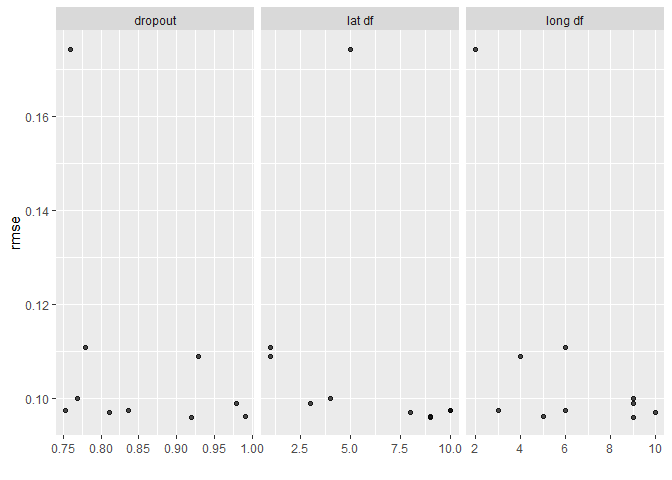
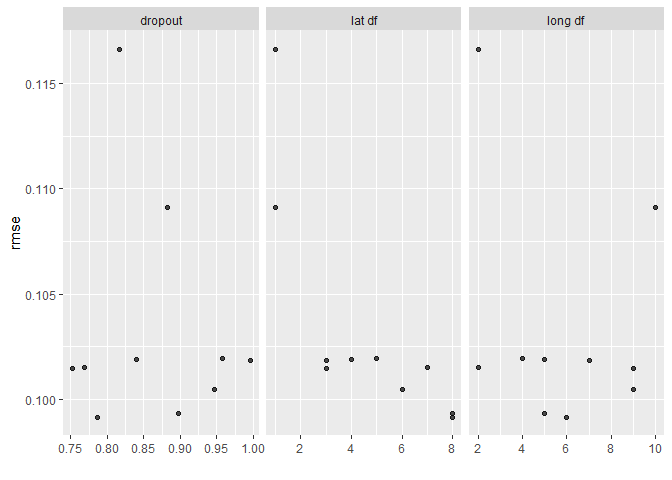
try again

diff --git a/README.md b/README.md
@@ -55,6 +55,7 @@ library(OutlierDetection)
 rec_obj <-
   recipe(mpg ~ ., data = mtcars) %>%
   step_outliers_maha(all_numeric(), -all_outcomes()) %>%
+  step_outliers_lookout(all_numeric(),-contains(r"(.outliers)"),-all_outcomes()) %>% 
   prep(mtcars)
 ```
 
@@ -62,23 +63,24 @@ rec_obj <-
 
 ``` r
 juice(rec_obj) %>% 
-  select(.outliers_maha)
+  select(contains(r"(.outliers)")) %>% 
+  arrange(.outliers_lookout %>% desc())
 #> Registered S3 method overwritten by 'cli':
 #>   method     from    
 #>   print.boxx spatstat
-#> # A tibble: 32 x 1
-#>    .outliers_maha
-#>             <dbl>
-#>  1          0.411
-#>  2          0.374
-#>  3          0.222
-#>  4          0.192
-#>  5          0.124
-#>  6          0.350
-#>  7          0.481
-#>  8          0.493
-#>  9          0.985
-#> 10          0.737
+#> # A tibble: 32 x 2
+#>    .outliers_maha .outliers_lookout
+#>             <dbl>             <dbl>
+#>  1          0.959            1     
+#>  2          0.967            0.506 
+#>  3          0.951            0.403 
+#>  4          0.654            0.108 
+#>  5          0.864            0.0795
+#>  6          0.741            0.0787
+#>  7          0.411            0     
+#>  8          0.374            0     
+#>  9          0.222            0     
+#> 10          0.192            0     
 #> # ... with 22 more rows
 ```
 
@@ -87,16 +89,34 @@ tidy(rec_obj,number = 1)
 #> # A tibble: 32 x 3
 #>    index outlier_probability id                 
 #>    <int>               <dbl> <chr>              
-#>  1     1               0.411 outliers_maha_mYwUv
-#>  2     2               0.374 outliers_maha_mYwUv
-#>  3     3               0.222 outliers_maha_mYwUv
-#>  4     4               0.192 outliers_maha_mYwUv
-#>  5     5               0.124 outliers_maha_mYwUv
-#>  6     6               0.350 outliers_maha_mYwUv
-#>  7     7               0.481 outliers_maha_mYwUv
-#>  8     8               0.493 outliers_maha_mYwUv
-#>  9     9               0.985 outliers_maha_mYwUv
-#> 10    10               0.737 outliers_maha_mYwUv
+#>  1     1               0.411 outliers_maha_UScb9
+#>  2     2               0.374 outliers_maha_UScb9
+#>  3     3               0.222 outliers_maha_UScb9
+#>  4     4               0.192 outliers_maha_UScb9
+#>  5     5               0.124 outliers_maha_UScb9
+#>  6     6               0.350 outliers_maha_UScb9
+#>  7     7               0.481 outliers_maha_UScb9
+#>  8     8               0.493 outliers_maha_UScb9
+#>  9     9               0.985 outliers_maha_UScb9
+#> 10    10               0.737 outliers_maha_UScb9
+#> # ... with 22 more rows
+```
+
+``` r
+tidy(rec_obj,number = 2)
+#> # A tibble: 32 x 3
+#>    index outlier_probability id                    
+#>    <int>               <dbl> <chr>                 
+#>  1     1                   0 outliers_lookout_jpLf8
+#>  2     2                   0 outliers_lookout_jpLf8
+#>  3     3                   0 outliers_lookout_jpLf8
+#>  4     4                   0 outliers_lookout_jpLf8
+#>  5     5                   0 outliers_lookout_jpLf8
+#>  6     6                   0 outliers_lookout_jpLf8
+#>  7     7                   0 outliers_lookout_jpLf8
+#>  8     8                   0 outliers_lookout_jpLf8
+#>  9     9                   0 outliers_lookout_jpLf8
+#> 10    10                   0 outliers_lookout_jpLf8
 #> # ... with 22 more rows
 ```
 
@@ -108,29 +128,31 @@ tidy(rec_obj,number = 1)
 rec_obj2 <-
   recipe(mpg ~ ., data = mtcars) %>%
   step_outliers_maha(all_numeric(), -all_outcomes()) %>%
+  step_outliers_lookout(all_numeric(),-contains(r"(.outliers)"),-all_outcomes()) %>% 
   step_outliers_remove(contains(r"(.outliers)")) %>% 
   prep(mtcars)
 ```
 
 ### Investigate results
 
-We can see that the mtcars dataset got reduced by our function
+We can see that the mtcars dataset got reduced by our function but way
+less than if we used just one function on this case
 
 ``` r
 juice(rec_obj2) %>% glimpse()
-#> Rows: 28
+#> Rows: 31
 #> Columns: 11
-#> $ cyl  <dbl> 6, 6, 4, 6, 8, 6, 8, 4, 6, 6, 8, 8, 8, 8, 8, 8, 4, 4, 4, 4, 8,...
-#> $ disp <dbl> 160.0, 160.0, 108.0, 258.0, 360.0, 225.0, 360.0, 146.7, 167.6,...
-#> $ hp   <dbl> 110, 110, 93, 110, 175, 105, 245, 62, 123, 123, 180, 180, 180,...
+#> $ cyl  <dbl> 6, 6, 4, 6, 8, 6, 8, 4, 4, 6, 6, 8, 8, 8, 8, 8, 8, 4, 4, 4, 4,...
+#> $ disp <dbl> 160.0, 160.0, 108.0, 258.0, 360.0, 225.0, 360.0, 146.7, 140.8,...
+#> $ hp   <dbl> 110, 110, 93, 110, 175, 105, 245, 62, 95, 123, 123, 180, 180, ...
 #> $ drat <dbl> 3.90, 3.90, 3.85, 3.08, 3.15, 2.76, 3.21, 3.69, 3.92, 3.92, 3....
-#> $ wt   <dbl> 2.620, 2.875, 2.320, 3.215, 3.440, 3.460, 3.570, 3.190, 3.440,...
-#> $ qsec <dbl> 16.46, 17.02, 18.61, 19.44, 17.02, 20.22, 15.84, 20.00, 18.30,...
-#> $ vs   <dbl> 0, 0, 1, 1, 0, 1, 0, 1, 1, 1, 0, 0, 0, 0, 0, 0, 1, 1, 1, 1, 0,...
-#> $ am   <dbl> 1, 1, 1, 0, 0, 0, 0, 0, 0, 0, 0, 0, 0, 0, 0, 0, 1, 1, 1, 0, 0,...
-#> $ gear <dbl> 4, 4, 4, 3, 3, 3, 3, 4, 4, 4, 3, 3, 3, 3, 3, 3, 4, 4, 4, 3, 3,...
-#> $ carb <dbl> 4, 4, 1, 1, 2, 1, 4, 2, 4, 4, 3, 3, 3, 4, 4, 4, 1, 2, 1, 1, 2,...
-#> $ mpg  <dbl> 21.0, 21.0, 22.8, 21.4, 18.7, 18.1, 14.3, 24.4, 19.2, 17.8, 16...
+#> $ wt   <dbl> 2.620, 2.875, 2.320, 3.215, 3.440, 3.460, 3.570, 3.190, 3.150,...
+#> $ qsec <dbl> 16.46, 17.02, 18.61, 19.44, 17.02, 20.22, 15.84, 20.00, 22.90,...
+#> $ vs   <dbl> 0, 0, 1, 1, 0, 1, 0, 1, 1, 1, 1, 0, 0, 0, 0, 0, 0, 1, 1, 1, 1,...
+#> $ am   <dbl> 1, 1, 1, 0, 0, 0, 0, 0, 0, 0, 0, 0, 0, 0, 0, 0, 0, 1, 1, 1, 0,...
+#> $ gear <dbl> 4, 4, 4, 3, 3, 3, 3, 4, 4, 4, 4, 3, 3, 3, 3, 3, 3, 4, 4, 4, 3,...
+#> $ carb <dbl> 4, 4, 1, 1, 2, 1, 4, 2, 2, 4, 4, 3, 3, 3, 4, 4, 4, 1, 2, 1, 1,...
+#> $ mpg  <dbl> 21.0, 21.0, 22.8, 21.4, 18.7, 18.1, 14.3, 24.4, 22.8, 19.2, 17...
 ```
 
 ``` r
@@ -153,21 +175,21 @@ mtcars %>% glimpse()
 And we can get which were the outliers and their probability
 
 ``` r
-tidy(rec_obj2,number = 2) %>% 
+tidy(rec_obj2,number = 3) %>% 
   arrange(aggregation_results %>% desc())
 #> # A tibble: 32 x 3
 #>    index outliers aggregation_results
 #>    <int> <lgl>                  <dbl>
-#>  1     9 TRUE                   0.985
-#>  2    29 TRUE                   0.967
-#>  3    31 TRUE                   0.959
-#>  4    27 TRUE                   0.951
-#>  5    19 FALSE                  0.864
-#>  6    21 FALSE                  0.745
-#>  7    28 FALSE                  0.741
-#>  8    10 FALSE                  0.737
-#>  9    24 FALSE                  0.693
-#> 10    30 FALSE                  0.654
+#>  1    31 TRUE                   0.980
+#>  2    29 FALSE                  0.736
+#>  3    27 FALSE                  0.677
+#>  4     9 FALSE                  0.493
+#>  5    19 FALSE                  0.472
+#>  6    28 FALSE                  0.410
+#>  7    30 FALSE                  0.381
+#>  8    21 FALSE                  0.372
+#>  9    10 FALSE                  0.369
+#> 10    24 FALSE                  0.347
 #> # ... with 22 more rows
 ```
 
@@ -201,6 +223,7 @@ ames_rec <-
   step_ns(Longitude, deg_free = tune("long df")) %>% 
   step_ns(Latitude,  deg_free = tune("lat df")) %>% 
   step_outliers_maha(all_numeric(), -all_outcomes()) %>%
+  step_outliers_lookout(all_numeric(),-contains(r"(.outliers)"),-all_outcomes()) %>% 
   step_outliers_remove(contains(r"(.outliers)"),probability_dropout = tune("dropout"))
 ```
 
@@ -237,16 +260,16 @@ spline_grid
 #> # A tibble: 10 x 3
 #>    `long df` `lat df` dropout
 #>        <int>    <int>   <dbl>
-#>  1         6        1   0.779
-#>  2         3       10   0.836
-#>  3         4        1   0.929
-#>  4         9        4   0.769
-#>  5         6       10   0.753
-#>  6         5        9   0.991
-#>  7         9        3   0.980
-#>  8         9        9   0.919
-#>  9        10        8   0.811
-#> 10         2        5   0.759
+#>  1         9        3   0.752
+#>  2         4        5   0.958
+#>  3         2        7   0.769
+#>  4        10        1   0.882
+#>  5         7        3   0.996
+#>  6         6        8   0.786
+#>  7         2        1   0.817
+#>  8         5        4   0.840
+#>  9         5        8   0.898
+#> 10         9        6   0.947
 ```
 
 ### create a simple model
@@ -289,16 +312,16 @@ rmse_vals
 #> # A tibble: 10 x 9
 #>    `long df` `lat df` dropout .metric .estimator   mean     n std_err .config   
 #>        <int>    <int>   <dbl> <chr>   <chr>       <dbl> <int>   <dbl> <chr>     
-#>  1         9        9   0.919 rmse    standard   0.0961    10 0.00239 Preproces~
-#>  2         5        9   0.991 rmse    standard   0.0963    10 0.00234 Preproces~
-#>  3        10        8   0.811 rmse    standard   0.0970    10 0.00246 Preproces~
-#>  4         3       10   0.836 rmse    standard   0.0974    10 0.00247 Preproces~
-#>  5         6       10   0.753 rmse    standard   0.0976    10 0.00231 Preproces~
-#>  6         9        3   0.980 rmse    standard   0.0989    10 0.00239 Preproces~
-#>  7         9        4   0.769 rmse    standard   0.0999    10 0.00231 Preproces~
-#>  8         4        1   0.929 rmse    standard   0.109     10 0.00248 Preproces~
-#>  9         6        1   0.779 rmse    standard   0.111     10 0.00250 Preproces~
-#> 10         2        5   0.759 rmse    standard   0.174     10 0.00651 Preproces~
+#>  1         6        8   0.786 rmse    standard   0.0992    10 0.00229 Preproces~
+#>  2         5        8   0.898 rmse    standard   0.0993    10 0.00224 Preproces~
+#>  3         9        6   0.947 rmse    standard   0.100     10 0.00248 Preproces~
+#>  4         9        3   0.752 rmse    standard   0.101     10 0.00240 Preproces~
+#>  5         2        7   0.769 rmse    standard   0.102     10 0.00239 Preproces~
+#>  6         7        3   0.996 rmse    standard   0.102     10 0.00219 Preproces~
+#>  7         5        4   0.840 rmse    standard   0.102     10 0.00228 Preproces~
+#>  8         4        5   0.958 rmse    standard   0.102     10 0.00230 Preproces~
+#>  9        10        1   0.882 rmse    standard   0.109     10 0.00287 Preproces~
+#> 10         2        1   0.817 rmse    standard   0.117     10 0.00288 Preproces~
 ```
 
 ## Plot it
